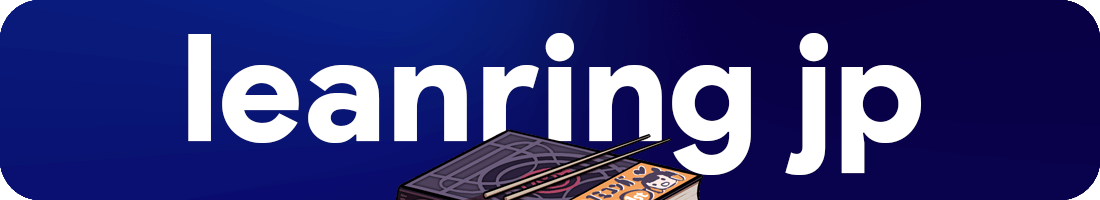
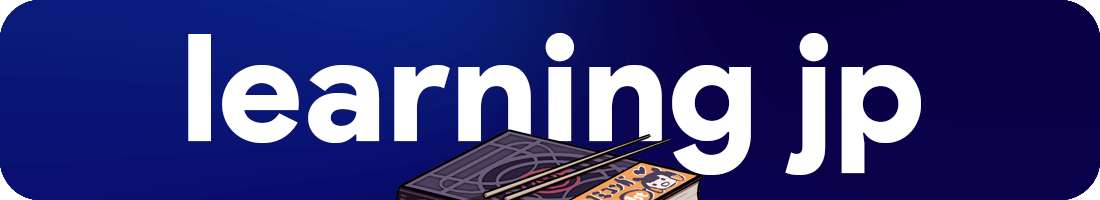
Fixed typos

Changed region(s): [[0.3709, 0.33, 0.4945, 0.72]]

diff --git a/jp.md b/jp.md
@@ -6,7 +6,7 @@ outline: [1,2]
 ---
 
 # Everything Japan
-Everything about Japan in one page! Language, culture, history, mytholody & more.
+Everything about Japan in one page! Language, culture, history, mythology & more.
 
 <br>
 
@@ -361,7 +361,7 @@ Interested in learning the japanese language? Here you can find resources to aid
 
 ![](/banner/abtjpn.png)
 # About Japan
-Culture, History, Mytholody & Festival. Everything about Japan!
+Culture, History, Mythology & Festival. Everything about Japan!
 
 ## Culture & History
 
